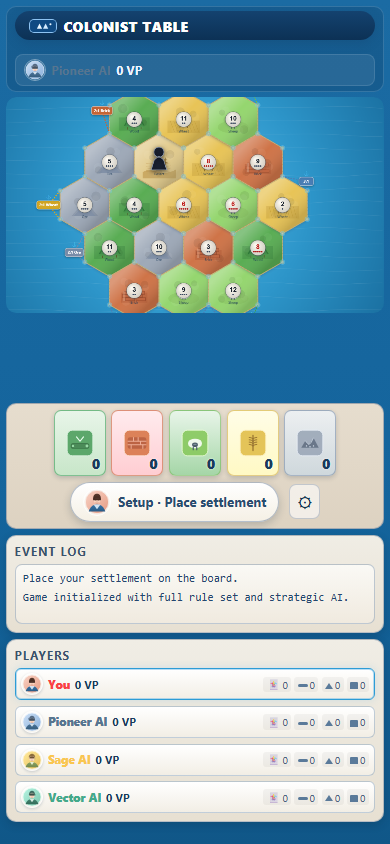
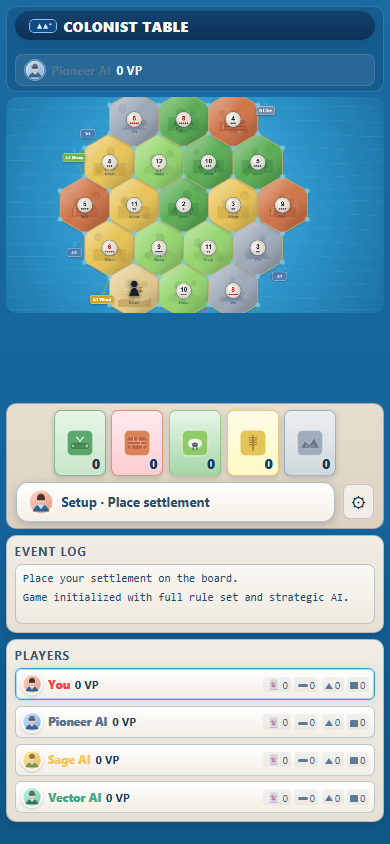
reduce structures/robber 50%, fix action bar wrapping

Changed region(s): [[0.0923, 0.0924, 0.8, 0.3697], [0.0308, 0.5545, 0.9846, 0.6469]]

diff --git a/src/game.js b/src/game.js
@@ -2147,26 +2147,26 @@ class ColonistFullGame {
     if (hex.id === this.robberHexId) {
       ctx.save();
       ctx.translate(hex.center.x, hex.center.y);
-      ctx.shadowColor = "rgba(0,0,0,0.55)";
-      ctx.shadowBlur = 12;
-      ctx.shadowOffsetY = 3;
+      ctx.shadowColor = "rgba(0,0,0,0.5)";
+      ctx.shadowBlur = 8;
+      ctx.shadowOffsetY = 2;
       ctx.fillStyle = "#1a2030";
       ctx.beginPath();
-      ctx.arc(0, -26, 13, 0, Math.PI * 2);
+      ctx.arc(0, -17, 9, 0, Math.PI * 2);
       ctx.fill();
       ctx.beginPath();
-      ctx.moveTo(-20, 20);
-      ctx.lineTo(-12, -6);
-      ctx.lineTo(0, -16);
-      ctx.lineTo(12, -6);
-      ctx.lineTo(20, 20);
+      ctx.moveTo(-14, 14);
+      ctx.lineTo(-8, -3);
+      ctx.lineTo(0, -10);
+      ctx.lineTo(8, -3);
+      ctx.lineTo(14, 14);
       ctx.closePath();
       ctx.fill();
       ctx.strokeStyle = "#8a95a5";
-      ctx.lineWidth = 2;
+      ctx.lineWidth = 1.5;
       ctx.stroke();
       ctx.beginPath();
-      ctx.arc(0, -26, 13, 0, Math.PI * 2);
+      ctx.arc(0, -17, 9, 0, Math.PI * 2);
       ctx.stroke();
       ctx.restore();
     }
@@ -2512,38 +2512,38 @@ class ColonistFullGame {
       ctx.shadowBlur = 8;
       ctx.shadowOffsetY = 3;
 
-      const fill = ctx.createLinearGradient(-20, -20, 20, 20);
+      const fill = ctx.createLinearGradient(-12, -12, 12, 12);
       fill.addColorStop(0, "rgba(255,255,255,0.26)");
       fill.addColorStop(0.25, player.color);
       fill.addColorStop(1, "rgba(16,16,20,0.45)");
       ctx.fillStyle = fill;
       ctx.strokeStyle = "#0f1722";
-      ctx.lineWidth = 2;
+      ctx.lineWidth = 1.5;
 
       if (node.structure === "settlement") {
         ctx.beginPath();
-        ctx.moveTo(-16, 14);
-        ctx.lineTo(-16, -4);
-        ctx.lineTo(0, -20);
-        ctx.lineTo(16, -4);
-        ctx.lineTo(16, 14);
+        ctx.moveTo(-10, 9);
+        ctx.lineTo(-10, -2);
+        ctx.lineTo(0, -12);
+        ctx.lineTo(10, -2);
+        ctx.lineTo(10, 9);
         ctx.closePath();
         ctx.fill();
         ctx.stroke();
         ctx.fillStyle = "rgba(255,255,255,0.3)";
-        ctx.fillRect(-6, -2, 5, 5);
+        ctx.fillRect(-4, -1, 3.5, 3.5);
       } else {
         ctx.beginPath();
-        ctx.rect(-20, -12, 40, 26);
-        ctx.moveTo(-21, -12);
-        ctx.lineTo(0, -28);
-        ctx.lineTo(21, -12);
+        ctx.rect(-13, -8, 26, 16);
+        ctx.moveTo(-14, -8);
+        ctx.lineTo(0, -18);
+        ctx.lineTo(14, -8);
         ctx.closePath();
         ctx.fill();
         ctx.stroke();
         ctx.fillStyle = "rgba(255,255,255,0.3)";
-        ctx.fillRect(-12, -4, 6, 6);
-        ctx.fillRect(5, -4, 6, 6);
+        ctx.fillRect(-8, -2, 4, 4);
+        ctx.fillRect(3, -2, 4, 4);
       }
       ctx.restore();
     });

diff --git a/styles.css b/styles.css
@@ -342,20 +342,20 @@ main.table-layout {
   display: flex;
   align-items: center;
   justify-content: center;
-  gap: 0.6rem;
-  flex-wrap: wrap;
+  gap: 0.5rem;
 }
 
 .action-prompt {
   display: flex;
   align-items: center;
-  gap: 0.45rem;
-  padding: 0.3rem 0.75rem;
+  gap: 0.4rem;
+  padding: 0.3rem 0.6rem;
   background: linear-gradient(180deg, #fff, #f5f0e5);
   border: 1px solid rgba(120, 138, 162, 0.55);
-  border-radius: 999px;
+  border-radius: 12px;
   box-shadow: 0 3px 8px rgba(8, 35, 55, 0.2);
-  max-width: 500px;
+  flex: 1;
+  max-width: 700px;
 }
 
 .action-prompt-avatar {
@@ -382,7 +382,7 @@ main.table-layout {
 .action-prompt-build {
   display: flex;
   gap: 0.25rem;
-  flex-wrap: wrap;
+  flex-wrap: nowrap;
 }
 
 .prompt-build-btn {
